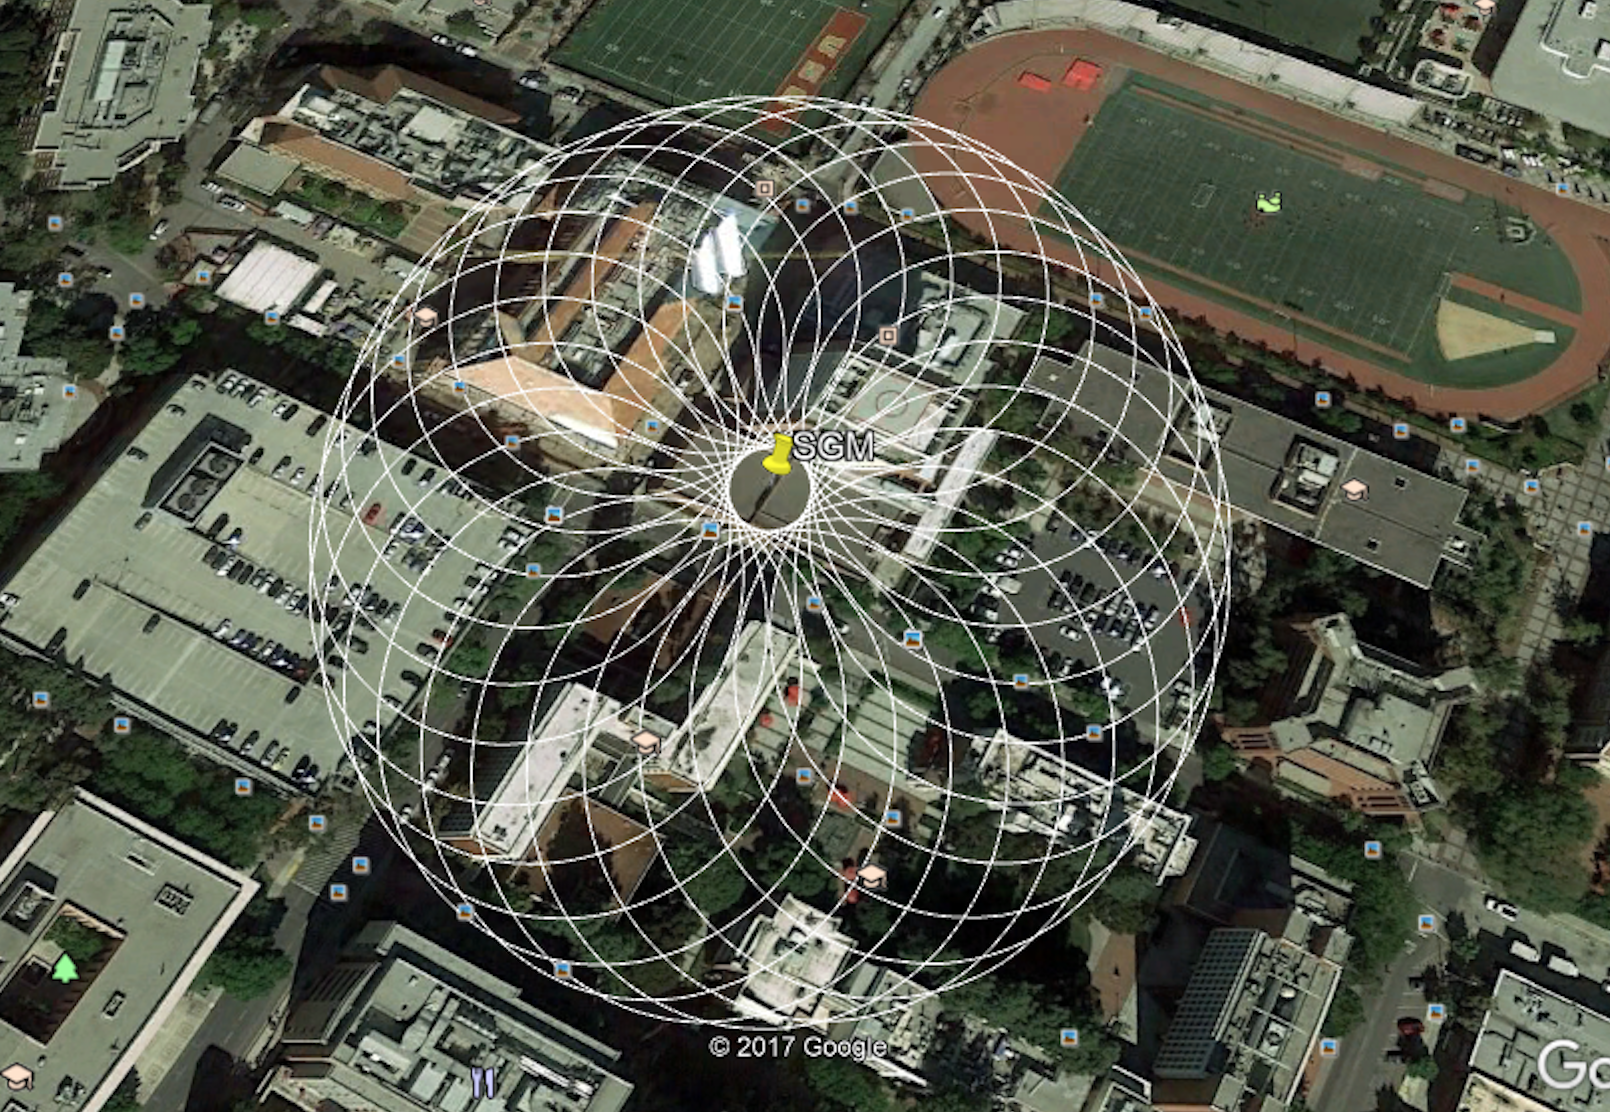
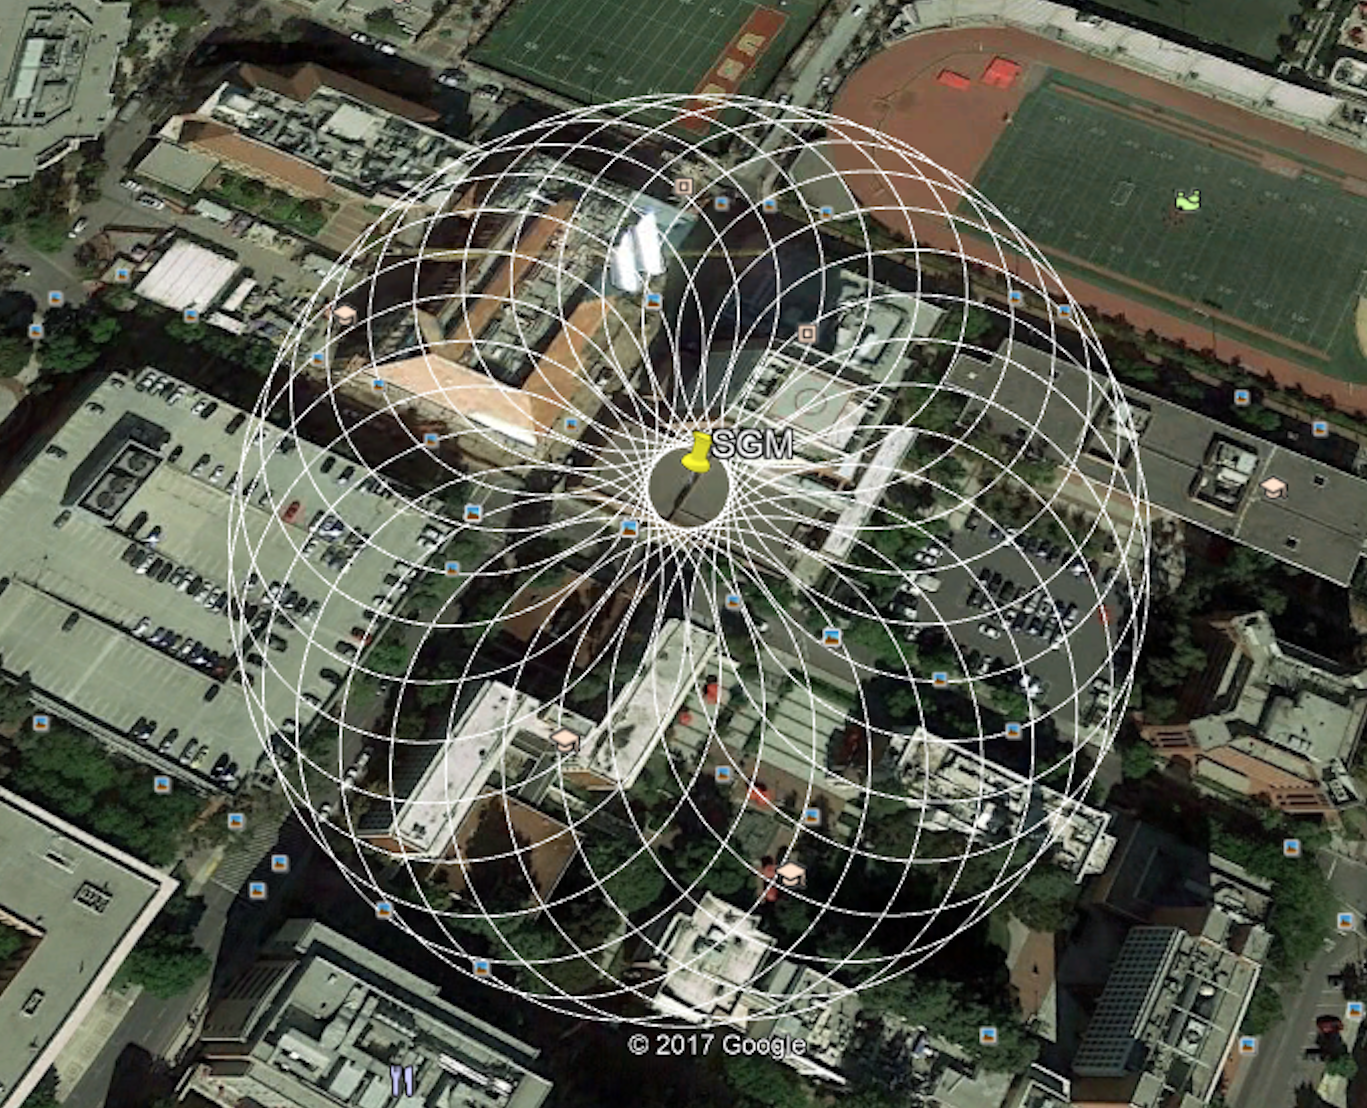
fixed nav jumps

diff --git a/index.html b/index.html
@@ -46,6 +46,7 @@
         </header>
         
         <main>
+            
 <!--            <span id="background">&nbsp;</span>-->
             <div class="background" id="background">
                 <h2 class="background-header">BACKGROUND</h2>
@@ -103,6 +104,7 @@
                     </tr>
                     <tr>
                         <td>R Command</td>
+                        <td>Google Cloud</td>
                     </tr>
                 </table>
             </div> 
@@ -132,7 +134,8 @@
                                 number of seats per table. In addition, it takes into 
                                 account people who must sit with each other, and people
                                 who cannot sit with each other. This is done by 
-                                implementing the DPLL algorithm and using SAT encoding.
+                                implementing the DPLL algorithm and using SAT encoding, 
+                                written in Python.
                             </p>
                         </td>
                     </tr>
@@ -146,7 +149,7 @@
                                 A bucket filter system that takes incoming packets
                                 and services them based on their token value This is 
                                 done via multithreading to resemble a bucket filter
-                                whose components work simultaneously. 
+                                whose components work simultaneously, written in C.
                             </p>
                         </td>
                     </tr>
@@ -161,7 +164,7 @@
                                 A maze finder that takes in a maze, starting point, and
                                 ending point, and finds a valid path from the starting
                                 to ending position. It will state if a path is not possible.
-                                This is implemented with recursion.
+                                This is implemented with recursion using Java.
                             </p>
                         </td>
                     </tr>
@@ -175,7 +178,8 @@
                             <p class="project-description">
                                 A KML file that has coordinates of locations close to
                                 me. The coordinates to make a convex hull and spirograph
-                                were found using Postgres queries on Google Cloud.
+                                were found using Postgres queries on Google Cloud, and 
+                                were run on Google Earth.
                             </p>
                         </td>
                     </tr>

diff --git a/style.css b/style.css
@@ -99,7 +99,7 @@ ul li a:hover {
 .background {
     color: black;
     margin-bottom: 5vw;
-    margin-top: 5vw;
+    padding-top: 5vw;
     
 }
 
@@ -140,14 +140,14 @@ ul li a:hover {
 /*------- SKILLS --------*/
 
 .skills {
-    margin-top: 5vw;
+    padding-top: 5vw;
     color: white;
     background-color: #E8CACC;
     padding-bottom: 5vw;
 }
 
 .skills-header {
-    padding-top: 5vw;
+/*    padding-top: 0vw;*/
     margin-left: 10vw;
     font-size: 2.5vw;
 /*    padding-bottom: 5vw;*/
@@ -234,7 +234,7 @@ th {
 */
 
 .google-earth {
-    border-radius: 10%; 
+    border-radius: 50%; 
 }
 
 /*-------- EXPERIENCE --------*/
